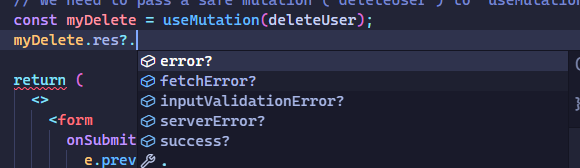
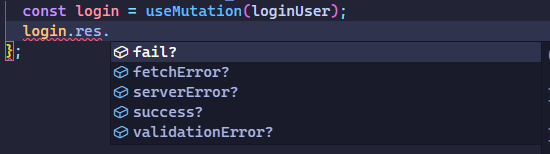
feat: remove output validation, change response object (#1)
* feat: remove `outputValidator`, `error` -> `fail` in `res`

* refactor: `inputValidationError` -> `validationError`

* fix(hook): `res` return type

* refactor: remove test file

* chore(assets): update images with new response types

* docs(readme): update with new changes

diff --git a/src/index.ts b/src/index.ts
@@ -1,44 +1,7 @@
-import { z } from "zod";
-import type { SafeMutationOverload } from "./types";
+import type { z } from "zod";
+import type { MutationOutput, SafeMutationOverload } from "./types";
 
-const successOutput = <SuccessData extends z.AnyZodObject>(successData: SuccessData) => {
-	return z.object({ type: z.literal("success"), data: successData });
-};
-
-const successOrErrorOutput = <SuccessData extends z.AnyZodObject, ErrorData extends z.AnyZodObject>(
-	successData: SuccessData,
-	errorData: ErrorData
-) => {
-	return successOutput(successData).or(z.object({ type: z.literal("error"), data: errorData }));
-};
-
-export function createMutationOutputValidator<SuccessData extends z.AnyZodObject>(data: {
-	successData: SuccessData;
-	errorData?: undefined;
-}): ReturnType<typeof successOutput<SuccessData>>;
-
-export function createMutationOutputValidator<
-	SuccessData extends z.AnyZodObject,
-	ErrorData extends z.AnyZodObject
->(data: {
-	successData: SuccessData;
-	errorData: ErrorData;
-}): ReturnType<typeof successOrErrorOutput<SuccessData, ErrorData>>;
-
-// This utility creates an output validator that has
-// { type: "success", data: successData }
-// or
-// { type: "error", data: errorData } (if `errorData` is provided, otherwise undefined).
-export function createMutationOutputValidator<
-	SuccessData extends z.AnyZodObject,
-	ErrorData extends z.AnyZodObject
->(data: { successData: SuccessData; errorData?: ErrorData | undefined }) {
-	if (typeof data.errorData !== "undefined") {
-		return successOrErrorOutput(data.successData, data.errorData);
-	}
-
-	return successOutput(data.successData);
-}
+export type { MutationOutput };
 
 // This is the safe mutation initializer.
 export const createSafeMutationClient = <AuthData extends object>(createOpts?: {
@@ -56,29 +19,29 @@ export const createSafeMutationClient = <AuthData extends object>(createOpts?: {
 		});
 
 	// `safeMutation` is the server function that creates a new mutation.
-	// It expects input and output validators, an optional `withAuth` property, and
-	// a definition function, so the mutation knows what to do on the server when
+	// It expects an input validator, a optional `withAuth` property, and a
+	// definition function, so the mutation knows what to do on the server when
 	// called by the client.
 	// It returns a function callable by the client.
 	const safeMutation: SafeMutationOverload<AuthData> = (opts, mutationDefinitionFunc) => {
-		// This is the function called by client. If `input` fails the `inputValidator`
-		// parsing, the function will return an `inputValidationError` object,
-		// containing all the invalid fields provided.
+		// This is the function called by client. If `input` fails the validator
+		// parsing, the function will return a `validationError` object, containing
+		// all the invalid fields provided.
 		return async (input) => {
-			const parsedInput = opts.inputValidator.safeParse(input);
+			const parsedInput = opts.input.safeParse(input);
 
 			if (!parsedInput.success) {
 				const fieldErrors = parsedInput.error.flatten().fieldErrors as Partial<
-					Record<keyof z.infer<(typeof opts)["inputValidator"]>, string[]>
+					Record<keyof z.infer<(typeof opts)["input"]>, string[]>
 				>;
 
 				return {
-					inputValidationError: fieldErrors,
+					validationError: fieldErrors,
 				};
 			}
 
 			try {
-				let serverRes: z.infer<(typeof opts)["outputValidator"]>;
+				let serverRes;
 
 				if (opts.withAuth) {
 					if (!createOpts?.getAuthData) {
@@ -92,12 +55,6 @@ export const createSafeMutationClient = <AuthData extends object>(createOpts?: {
 				} else {
 					// @ts-expect-error
 					serverRes = await mutationDefinitionFunc(parsedInput.data);
-				}
-
-				const parsedOutput = opts.outputValidator.safeParse(serverRes);
-
-				if (!parsedOutput.success) {
-					throw new Error("output parsing risulted in invalid object");
 				}
 
 				return {

diff --git a/src/types/index.ts b/src/types/index.ts
@@ -1,0 +1,49 @@
+import type { z } from "zod";
+import type { Merge } from "./merge";
+
+// Remove undefined keys from object.
+type NoUndefinedKeys<T> = T extends undefined
+	? undefined
+	: { [K in keyof T as T[K] extends undefined ? never : K]: T[K] };
+
+// What a mutation definition function must return.
+export type MutationOutput<SuccessData extends object, FailData extends object> =
+	| {
+			type: "success";
+			data: SuccessData;
+	  }
+	| { type: "fail"; data: FailData };
+
+// The type for client mutation, which is called by components.
+// You pass the input data here, and it's all typesafe.
+export type ClientMutation<IV extends z.ZodTypeAny, MO extends MutationOutput<{}, {}>> = (
+	input: z.infer<IV>
+) => Promise<{
+	success?: Merge<NoUndefinedKeys<Extract<MO, { type: "success" }>["data"]>>;
+	fail?: Merge<NoUndefinedKeys<Extract<MO, { type: "fail" }>["data"]>>;
+	serverError?: true;
+	validationError?: Partial<Record<keyof z.infer<IV>, string[]>>;
+}>;
+
+// We need to overload the `safeMutation` function, because some mutations
+// need authentication, and others don't, so you can pass the `withAuth: true` property
+// in the `opts` arg, to get back both `parsedInput` and `authArgs` in the server
+// mutation function definition.
+// `authArgs` comes from the previously defined `getAuthUserId` function.
+export type SafeMutationOverload<AuthData extends object> = {
+	<const IV extends z.ZodTypeAny, const MO extends MutationOutput<{}, {}>>(
+		opts: {
+			input: IV;
+			withAuth?: false;
+		},
+		mutationDefinitionFunc: (parsedInput: z.infer<IV>, authArgs: undefined) => Promise<MO>
+	): ClientMutation<IV, MO>;
+
+	<const IV extends z.ZodTypeAny, const MO extends MutationOutput<{}, {}>>(
+		opts: {
+			input: IV;
+			withAuth: true;
+		},
+		mutationDefinitionFunc: (parsedInput: z.infer<IV>, authArgs: AuthData) => Promise<MO>
+	): ClientMutation<IV, MO>;
+};

diff --git a/src/types/merge.ts b/src/types/merge.ts
@@ -1,0 +1,20 @@
+// Thanks to https://dev.to/lucianbc/union-type-merging-in-typescript-9al
+
+type CommonKeys<T extends object> = keyof T;
+
+type Subtract<A, C> = A extends C ? never : A;
+type NonCommonKeys<T extends object> = Subtract<AllKeys<T>, CommonKeys<T>>;
+
+type AllKeys<T> = T extends any ? keyof T : never;
+
+type PickType<T, K extends AllKeys<T>> = T extends { [k in K]?: any } ? T[K] : undefined;
+
+type PickTypeOf<T, K extends string | number | symbol> = K extends AllKeys<T>
+	? PickType<T, K>
+	: never;
+
+export type Merge<T extends object> = {
+	[k in CommonKeys<T>]: PickTypeOf<T, k>;
+} & {
+	[k in NonCommonKeys<T>]?: PickTypeOf<T, k>;
+};

diff --git a/src/hook/index.ts b/src/hook/index.ts
@@ -1,9 +1,9 @@
 import { useCallback, useRef, useState } from "react";
 import type { z } from "zod";
-import type { ClientMutation } from "../types";
+import type { ClientMutation, MutationOutput } from "../types";
 
-export const useMutation = <const IV extends z.ZodTypeAny, const OV extends z.ZodTypeAny>(
-	mutationFunction: ClientMutation<IV, OV>
+export const useMutation = <const IV extends z.ZodTypeAny, const MO extends MutationOutput<{}, {}>>(
+	mutationFunction: ClientMutation<IV, MO>
 ) => {
 	const mutation = useRef(mutationFunction);
 	const [isMutating, setIsMutating] = useState(false);

diff --git a/README.md b/README.md
@@ -37,37 +37,25 @@ Then, create a file for a mutation:
 ```typescript
 // src/app/login-mutation.ts
 
-"use server"; // don't forget to add this directive
+"use server"; // don't forget to add this
 
-import { createMutationOutputValidator } from "next-safe-mutation";
 import { z } from "zod";
 import { safeMutation } from "~/lib/safe-mutation";
 
 // This is used to validate input from client.
-const inputValidator = z.object({
+const input = z.object({
   username: z.string().min(3).max(10),
   password: z.string().min(8).max(100),
 });
 
-// This is used to create an ouput validator.
-// `successData` is required and `errorData` is optional.
-const outputValidator = createMutationOutputValidator({
-  successData: z.object({ ok: z.literal(true) }),
-  errorData: z.object({
-    reason: z.enum(["incorrect_credentials", "user_suspended"]),
-  }),
-});
-
 // This is how a safe mutation is created.
-// Since we provided Zod input and output validators to the function, we're sure
-// that data that comes in and out of this is type safe and validated.
+// Since we provided a Zod input validator to the function, we're sure
+// that data that comes in is type safe and validated.
 // The second argument of this function is an async function that receives
 // parsed input, and defines what happens on the server when the mutation is
 // called from the client.
 // In short, this is your backend code. It never runs on the client.
-export const loginUser = safeMutation(
-  { inputValidator, outputValidator },
-  async ({ username, password }) => { // typesafe input
+export const loginUser = safeMutation({ input }, async ({ username, password }) => {
     if (username === "johndoe") {
       return {
         type: "error",
@@ -151,13 +139,13 @@ As you can see from the image, on the client you get back a typesafe response ob
 
 Here's an explanation:
 
-- `success` or `error`: if mutation runs without issues, you get what you returned in the server mutation body, with a type of output validator's `successData` or `errorData` key (see second code block).
+- `success` or `fail`: if mutation runs without issues, you get what you returned in the server mutation body.
 
-- `inputValidationError`: if an invalid input object (parsed by Zod via `inputValidator`) is passed from the client when calling the mutation, invalid fields will populate this key, in the form of:
+- `validationError`: if an invalid input object (parsed by Zod via input validator) is passed from the client when calling the mutation, invalid fields will populate this key, in the form of:
 
 ```json
 {
-  "inputValidationError": {
+  "validationError": {
     "fieldName": ["issue"],
   }
 }
@@ -174,7 +162,7 @@ Here's how it works:
 ```tsx
 // src/app/hook/deleteuser-form.tsx
 
-"use client";
+"use client"; // this is a client component
 
 import { useMutation } from "next-safe-mutation/hook";
 import { deleteUser } from "./deleteuser-mutation";
@@ -221,7 +209,7 @@ The `useMutation` hook returns an object with three keys:
 
 - `mutate`: a caller for the safe mutation you provided as argument to the hook. Here you pass your typesafe `input`, the same way you do when using safe mutation the non-hooky way.
 - `isMutating`: a `boolean` that is true while the `mutate` function is mutating data.
-- `res`: when `mutate` finished mutating data, the response object. Otherwise it is `null`. It has the same four optional keys as the one above (`success`, `error`, `inputValidationError`, `serverError`), plus one: `fetchError`. This additional optional key is populated when communication with the server fails for some reason.
+- `res`: when `mutate` finished mutating data, the response object. Otherwise it is `null`. It has the same four optional keys as the one above (`success`, `fail`, `validationError`, `serverError`), plus one: `fetchError`. This additional optional key is populated when communication with the server fails for some reason.
 
 Image example:
 
@@ -263,9 +251,8 @@ Then, you can provide a `withAuth: true` option to the safe mutation you're crea
 // [2] Then, you'll have access to the auth object, in this case it's just
 // `{ userId }`, which comes from the return type of the `getAuthData` function
 // declared in the previous step.
-export const editUser = safeMutation(
-  { inputValidator, outputValidator, withAuth: true }, // [1]
-  async (parsedInput, { userId }) => {  // [2]
+export const editUser = safeMutation({ input, withAuth: true }, // [1]
+  async (parsedInput, { userId }) => { // [2]
     console.log(userId); // will output: "coolest_user_id",
     ...
   }
